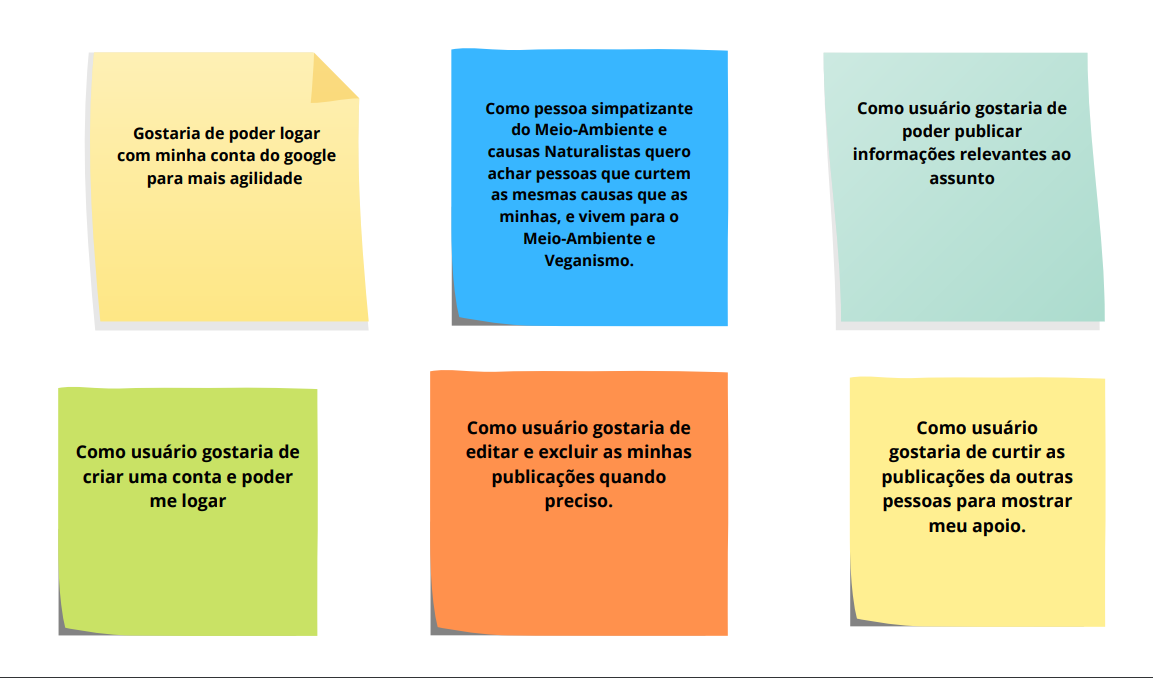
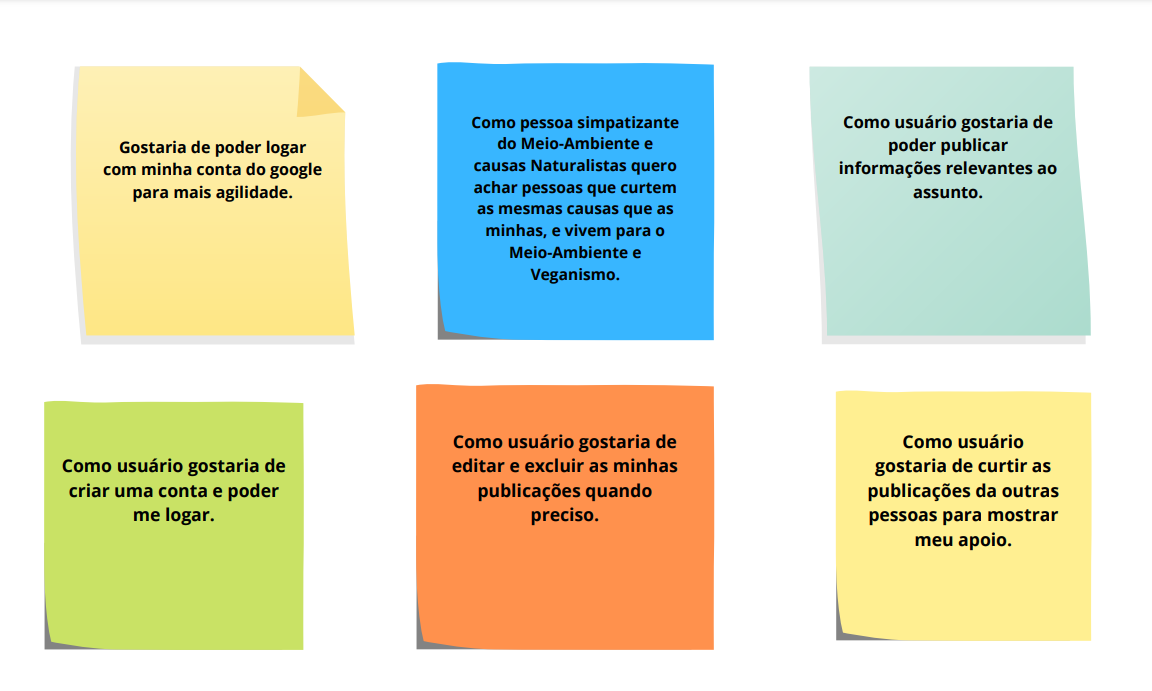
alinhando textos

diff --git a/README.md b/README.md
@@ -13,10 +13,7 @@
 
 ## 1. Introdução
 
-3° Projeto desenvolvido no bootcamp de front-end da Laboratoria, neste projeto nós tinha o objetivo de desenvolver uma rede social, e assim construímos uma [Single-page
-Application
-(SPA)](https://pt.wikipedia.org/wiki/Aplicativo_de_p%C3%A1gina_%C3%BAnica)
-[_responsiva_] (com mais de uma tela/ página) na qual seja possível ler e escrever dados.
+3° Projeto desenvolvido no bootcamp de front-end da Laboratoria, neste projeto nós tinha o objetivo de desenvolver uma rede social, e assim construímos uma [Single-page Application(SPA)](https://pt.wikipedia.org/wiki/Aplicativo_de_p%C3%A1gina_%C3%BAnica)[_responsiva_] (com mais de uma tela/ página) na qual seja possível ler e escrever dados.
 
 ![adem-ay-Tk9m_HP4rgQ-unsplash](https://user-images.githubusercontent.com/110297/135544666-4efa54f1-4ff6-4c4c-b398-6df04ef56117.jpg)
 
